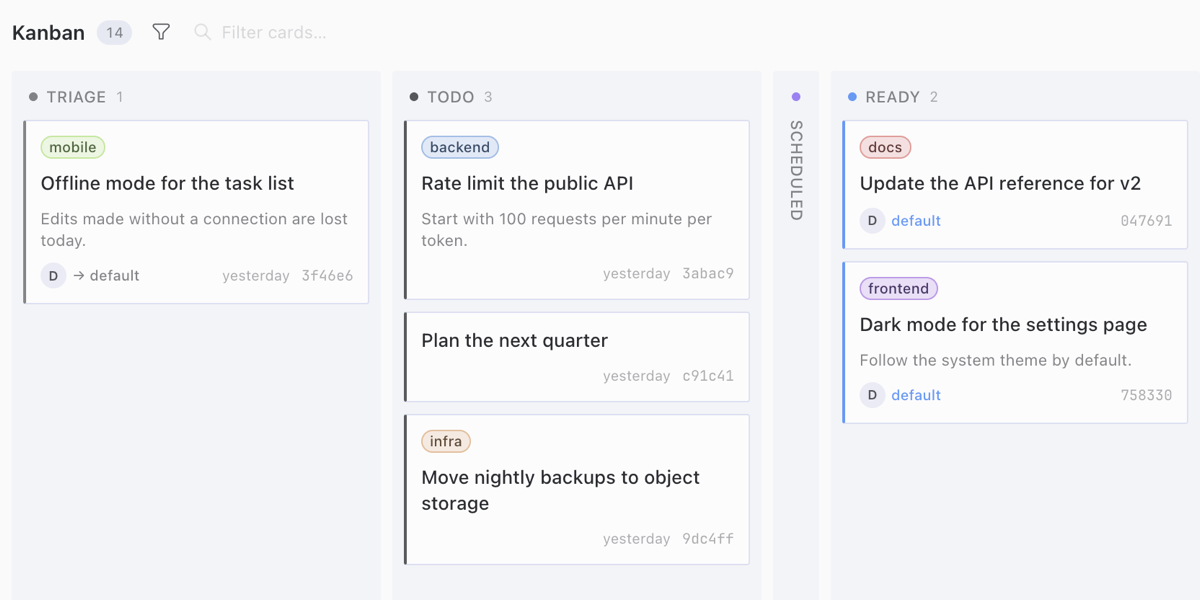
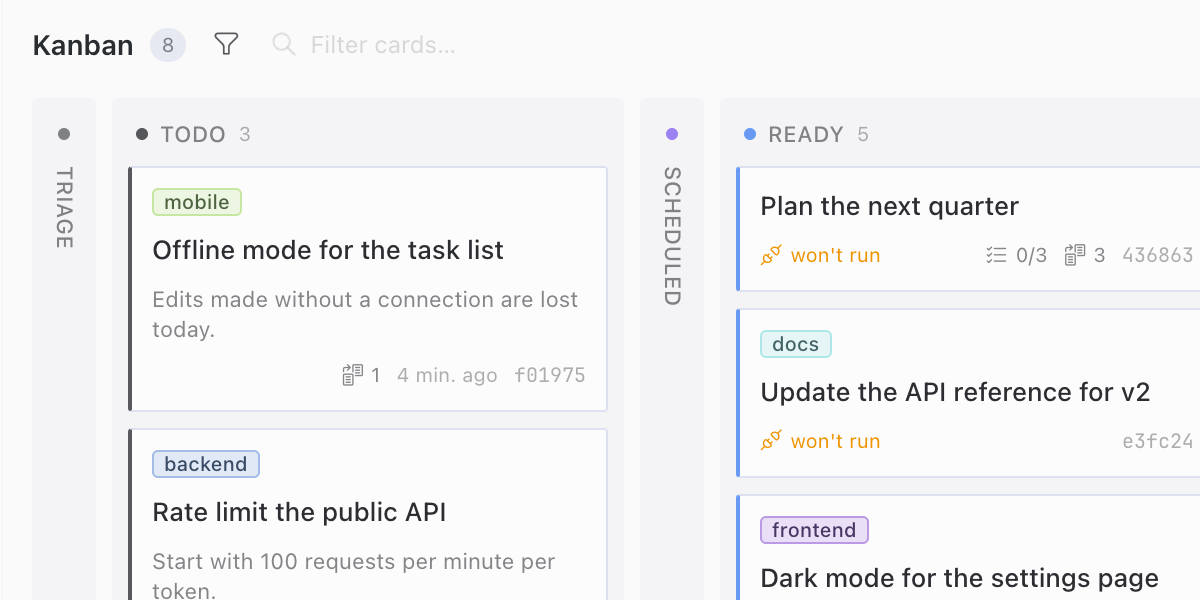
docs: refresh board screenshots with slot-painted labels
Delivery-Plan: docs/plans/2026-10-24-kanban-card-badge-slot.md
Delivery-Task: 4
Delivery-Task-Title: Refresh board screenshots from an isolated Desktop build

diff --git a/README.md b/README.md
@@ -22,6 +22,8 @@ label, and card titles stay as they are.
 - The bundled Kanban plugin, enabled in Capabilities → Plugins → Kanban.
 - Kanban cards with a tenant.
 
+Tested on macOS with Hermes Desktop built from hermes-agent commit `e04614a`, the merge of the card badge slot.
+
 ## Install
 
 ### From Hermes Desktop
